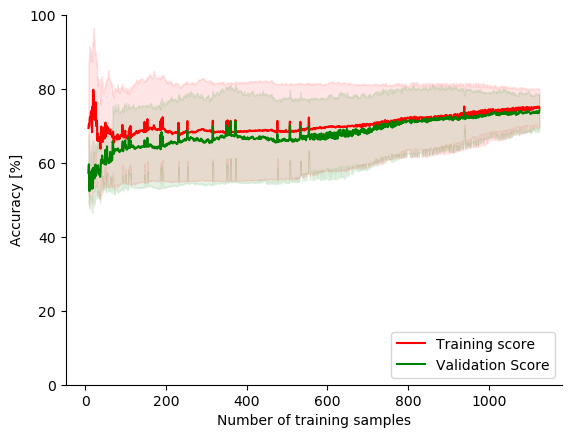
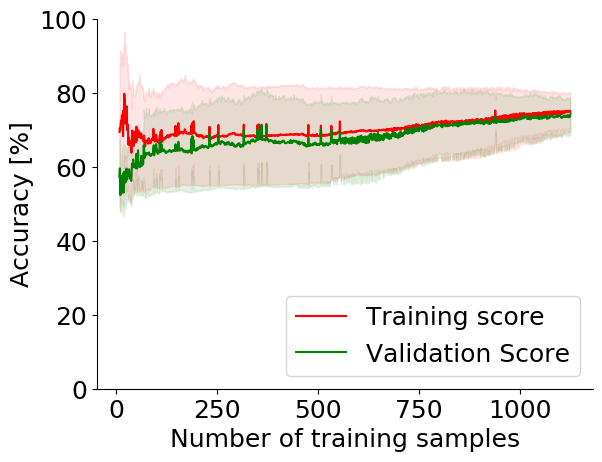
font size of learning curves to 18

diff --git a/Code/Analysis Tools/LearningCurvePlotter.py b/Code/Analysis Tools/LearningCurvePlotter.py
@@ -22,9 +22,10 @@ class LearningCurvePlotter (object):
             plt.show()
 
     def plot_learning_curve(self, nrOfTrainingSamples, testPerformance, trainPerformance,
-                            ylim=None, plotLegend=True):
+                            ylim=None, plotLegend=True, fontSize=18):
         mpl.rcParams['axes.spines.right'] = False
         mpl.rcParams['axes.spines.top'] = False
+        plt.rcParams.update({'font.size': fontSize})
         plt.figure()
         if ylim is not None:
             plt.ylim(*ylim)
